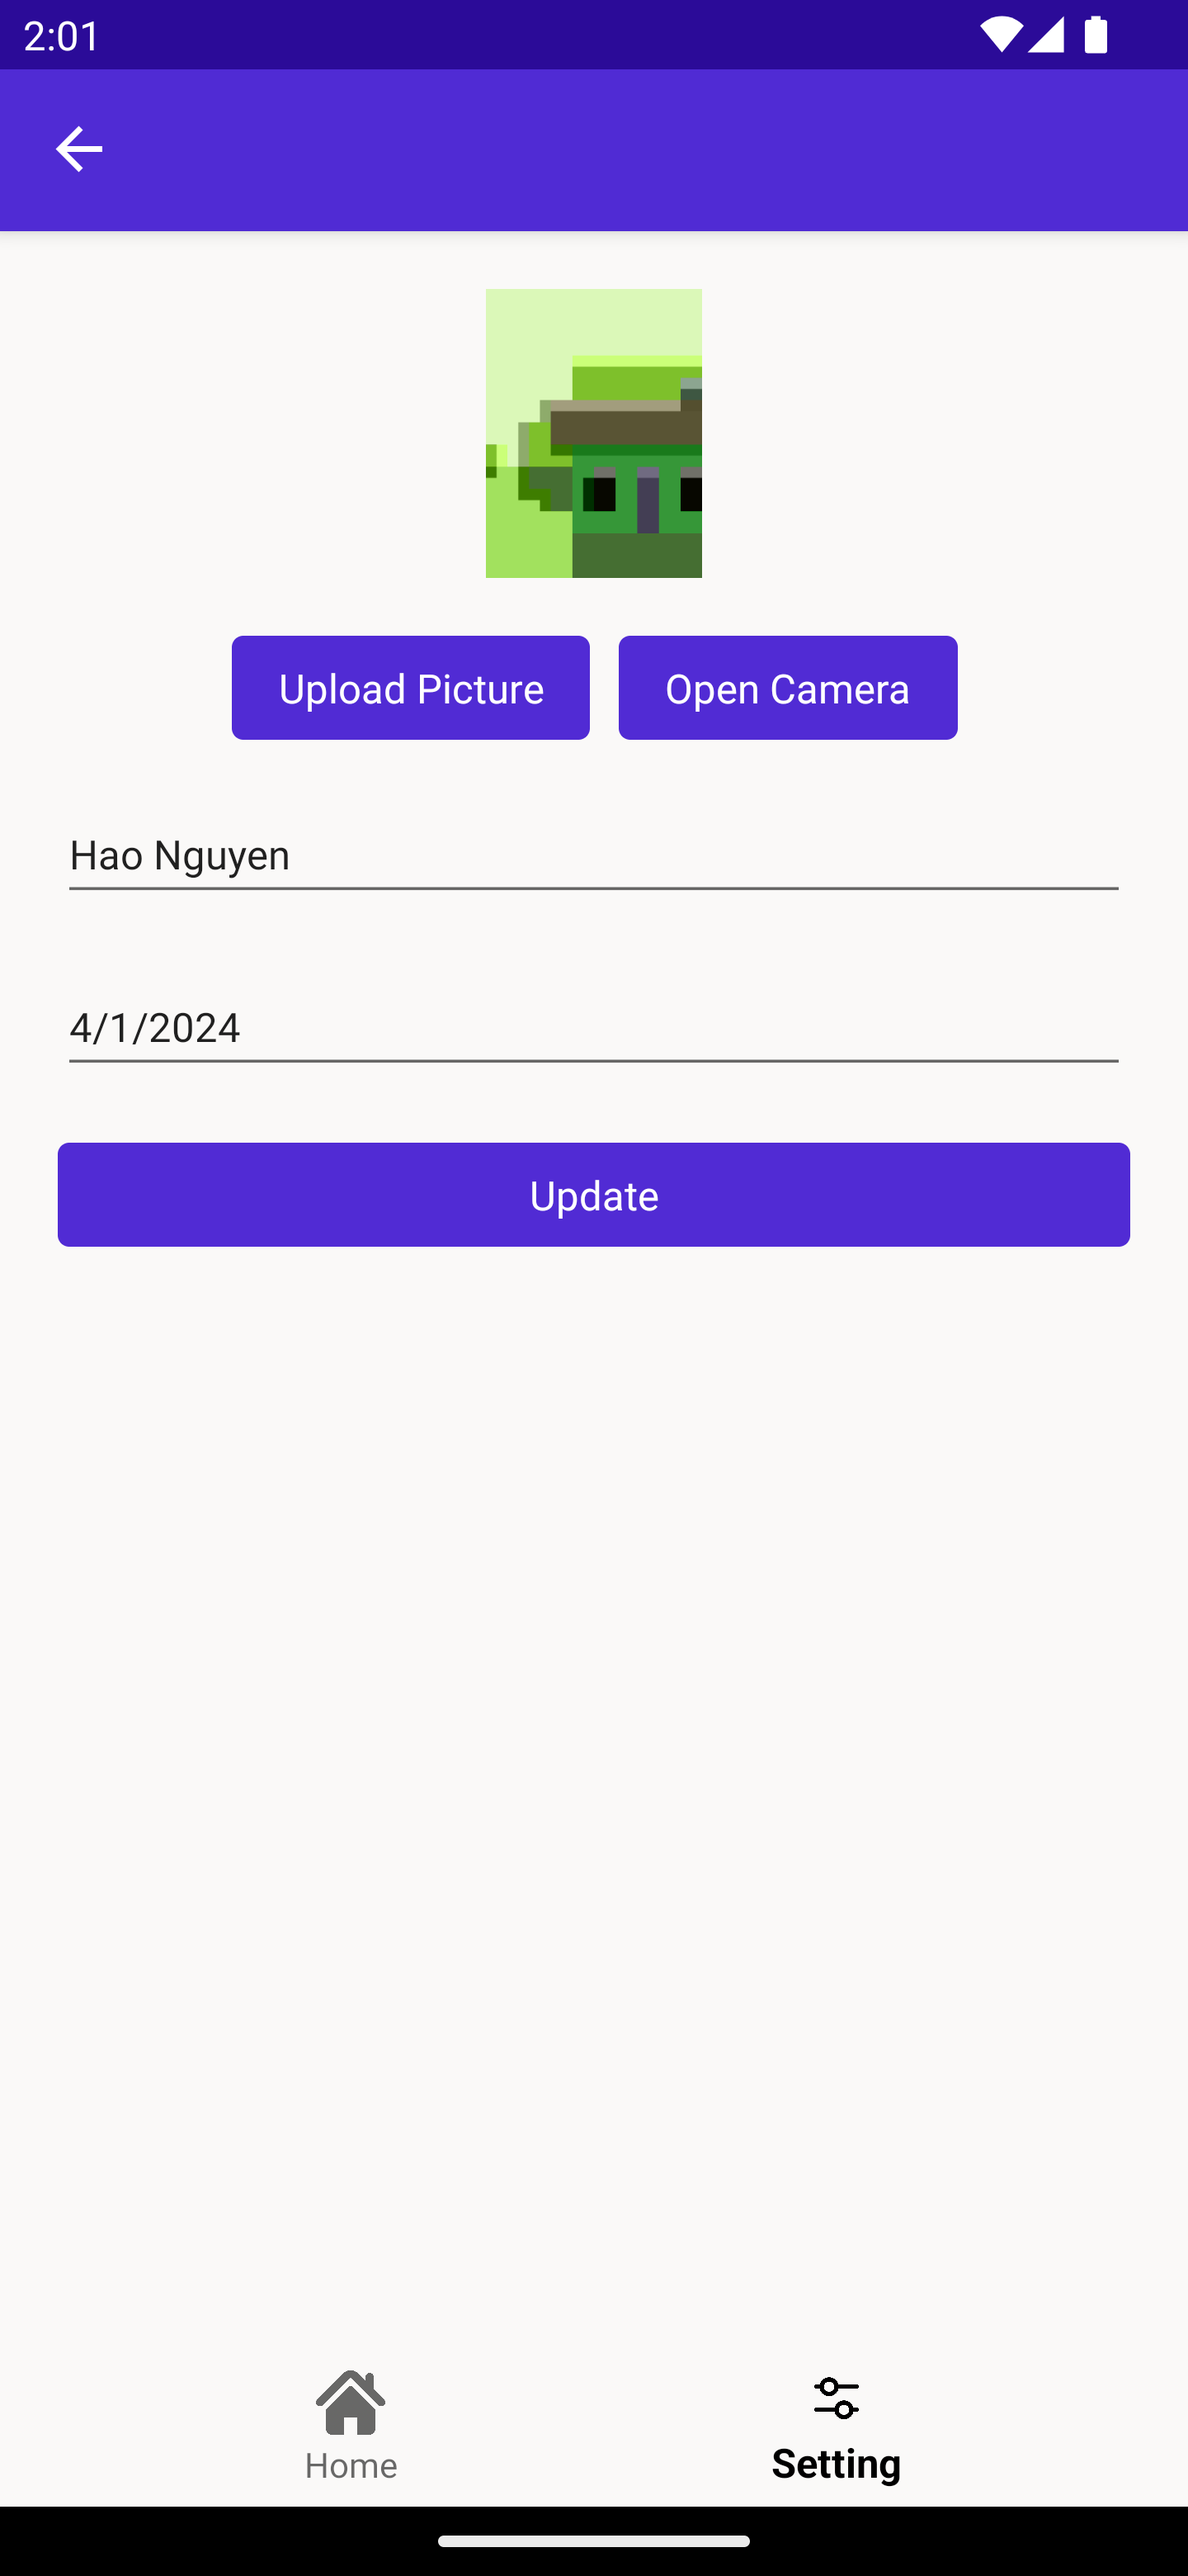
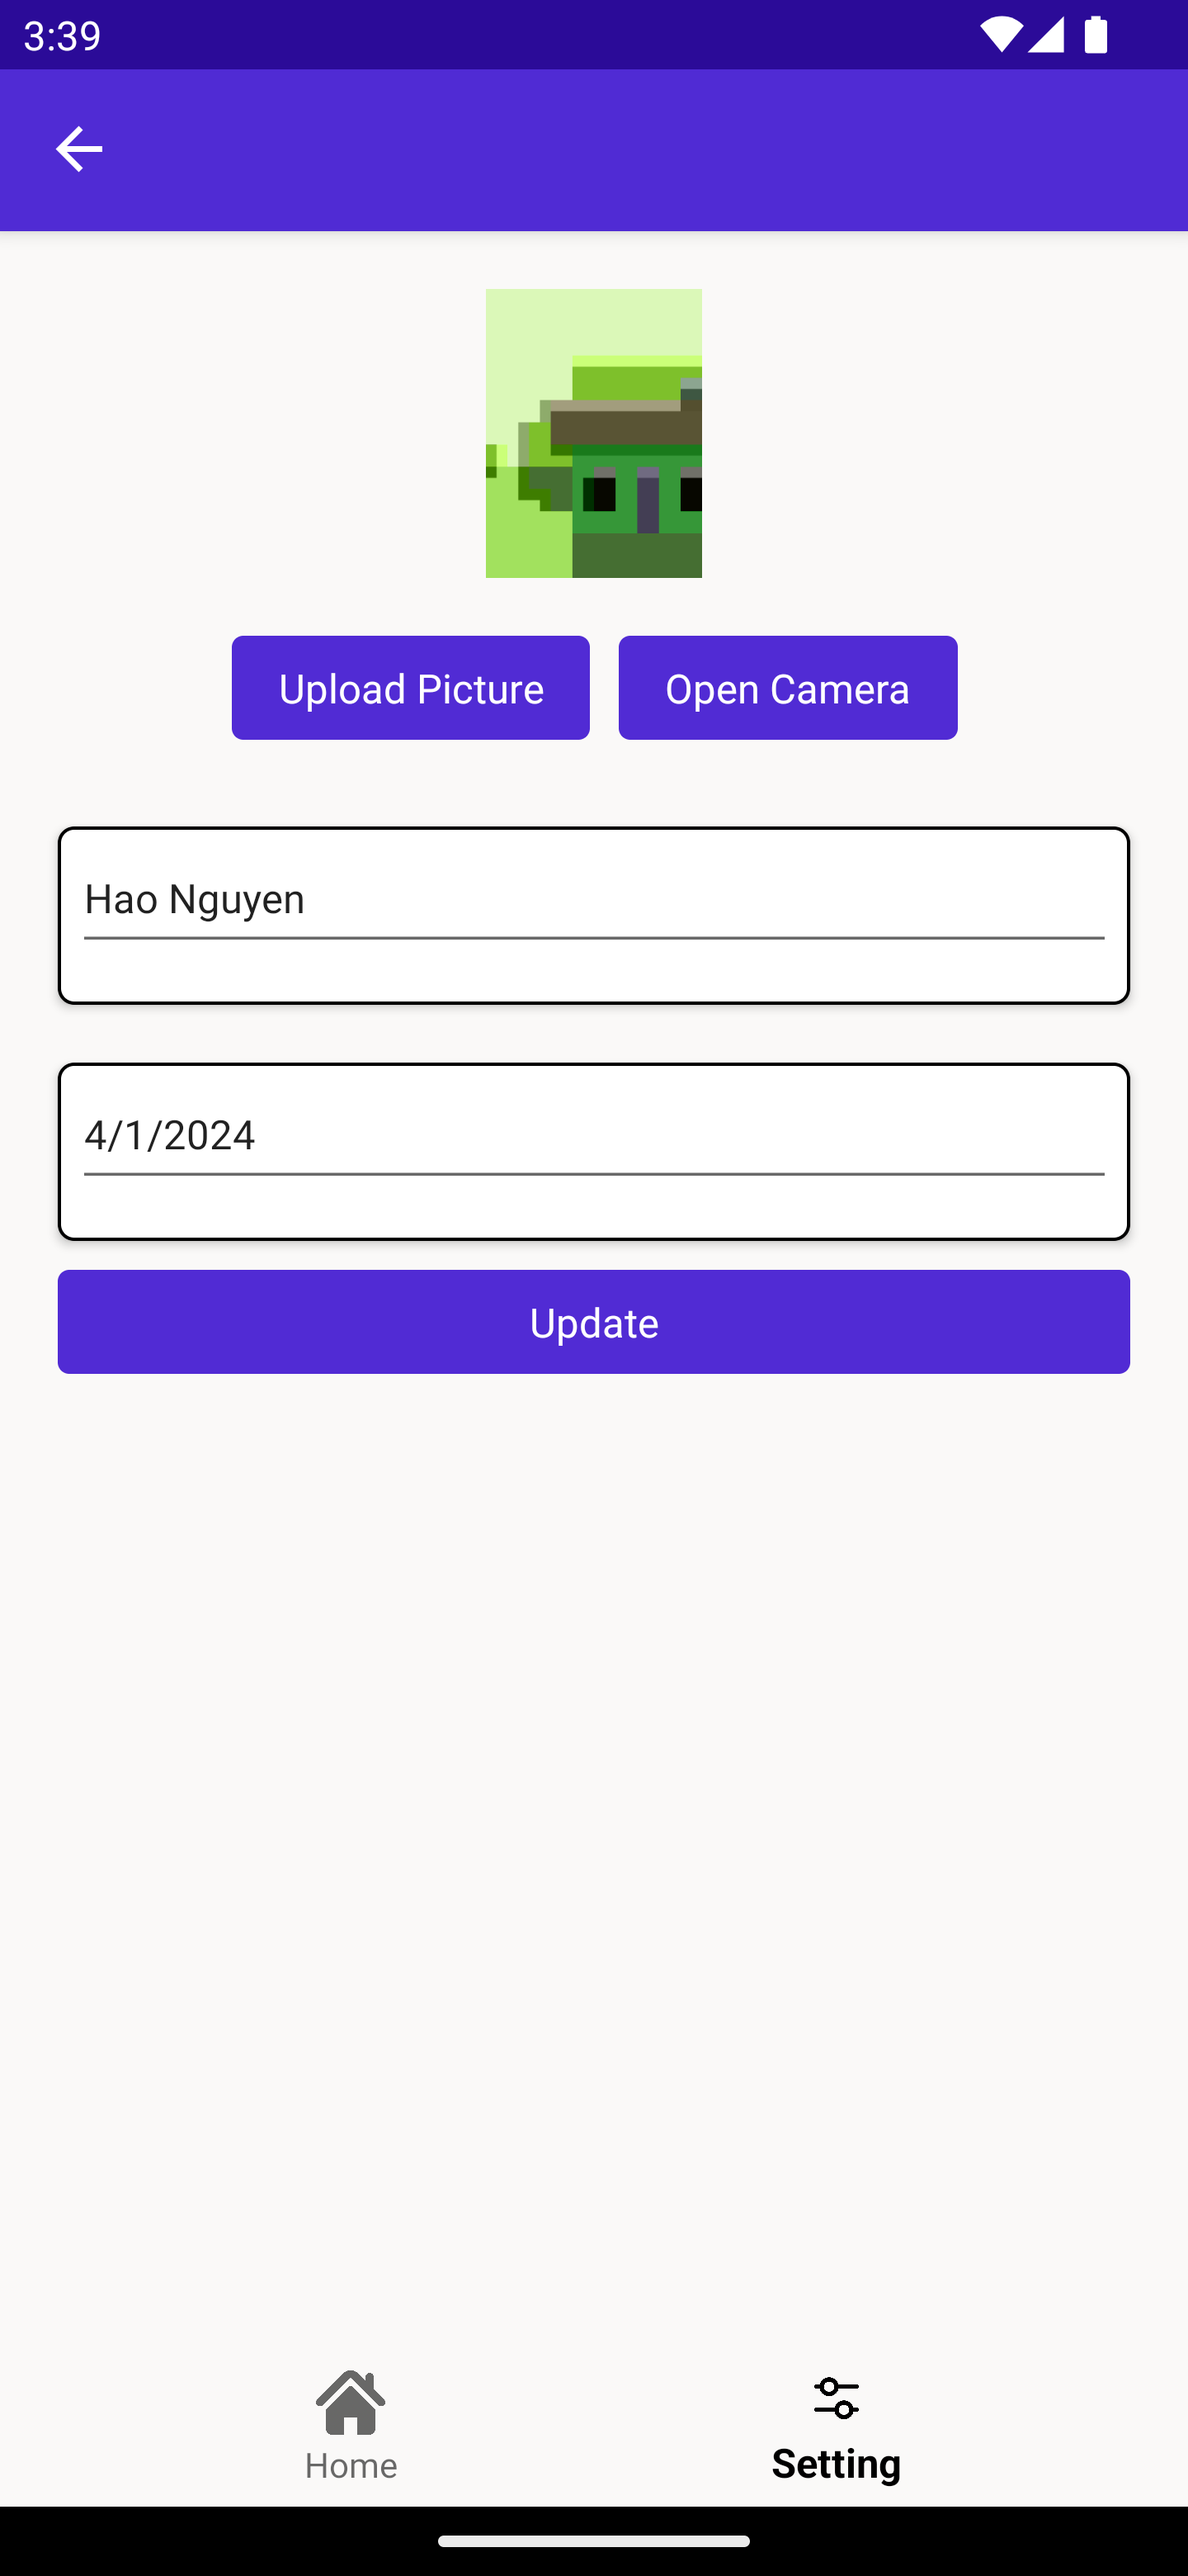
Update AccountPage

diff --git a/AwesomeUI/View/AccountPage.xaml b/AwesomeUI/View/AccountPage.xaml
@@ -1,4 +1,5 @@
 <?xml version="1.0" encoding="utf-8"?>
+
 <ContentPage xmlns="http://schemas.microsoft.com/dotnet/2021/maui"
              xmlns:x="http://schemas.microsoft.com/winfx/2009/xaml"
              xmlns:viewModel="clr-namespace:AwesomeUI.ViewModel"
@@ -8,12 +9,16 @@
         <StackLayout Padding="20" Spacing="10">
             <Image Source="{Binding ProfilePicture}" WidthRequest="100" HeightRequest="100" Margin="0,0,0,10" />
             <ActivityIndicator IsRunning="{Binding IsUploadingImage}" IsVisible="{Binding IsUploadingImage}" />
-            <StackLayout Orientation="Horizontal" Spacing="10" HorizontalOptions="Center" VerticalOptions="Center" >
+            <StackLayout Orientation="Horizontal" Spacing="10" HorizontalOptions="Center" VerticalOptions="Center">
                 <Button Text="Upload Picture" Command="{Binding PickImageCommand}" Margin="0,0,0,10" />
                 <Button Text="Open Camera" Command="{Binding OpenCameraCommand}" Margin="0,0,0,10" />
             </StackLayout>
-            <Entry Placeholder="Full Name" Text="{Binding FullName}" Margin="0,0,0,10" />
-            <DatePicker Date="{Binding BirthDate}" Margin="0,0,0,10" />
+            <Frame BorderColor="Black" CornerRadius="5" Padding="5" Margin="0,10,0,0">
+                <Entry Placeholder="Full Name" Text="{Binding FullName}" Margin="0,0,0,10" />
+            </Frame>
+            <Frame BorderColor="Black" CornerRadius="5" Padding="5" Margin="0,10,0,0">
+                <DatePicker Date="{Binding BirthDate}" Margin="0,0,0,10" />
+            </Frame>
             <Button Text="Update" Command="{Binding UpdateAccountCommand}" Margin="0,0,0,10" />
         </StackLayout>
     </ContentPage.Content>
